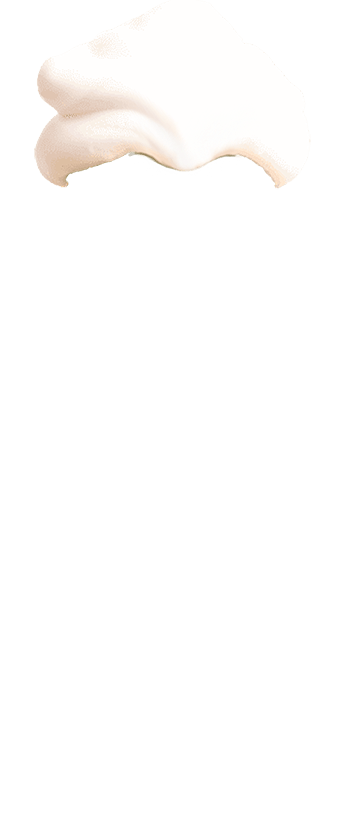
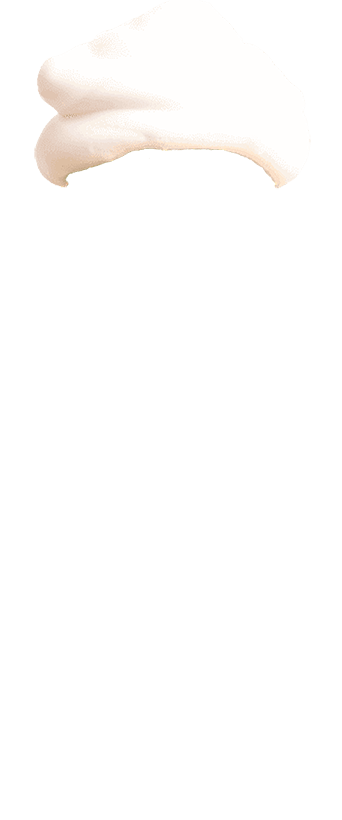
delete cream from Mobile and Tablet

Changed region(s): [[0.3801, 0.122, 0.7018, 0.2134]]

diff --git a/src/partials/hero.html b/src/partials/hero.html
@@ -160,14 +160,6 @@
           "
           media="(min-width: 1280px)"
         />
-        <source
-          srcset="./images/hero/08_cream-tablet@1x.png 1x, ./images/hero/08_cream-tablet@2x.png 2x"
-          media="(min-width: 768px)"
-        />
-        <source
-          srcset="./images/hero/08_cream-mobile@1x.png 1x, ./images/hero/08_cream-mobile@2x.png 2x"
-          media="(max-width: 767px)"
-        />
         <img src="./images/hero/08_cream-desktop@1x.png" alt="cream" />
       </picture>
       <picture class="picture-wrap__layer">
@@ -177,14 +169,6 @@
             ./images/hero/09_cream-desktop@2x.png 2x
           "
           media="(min-width: 1280px)"
-        />
-        <source
-          srcset="./images/hero/09_cream-tablet@1x.png 1x, ./images/hero/09_cream-tablet@2x.png 2x"
-          media="(min-width: 768px)"
-        />
-        <source
-          srcset="./images/hero/09_cream-mobile@1x.png 1x, ./images/hero/09_cream-mobile@2x.png 2x"
-          media="(max-width: 767px)"
         />
         <img src="./images/hero/09_cream-desktop@1x.png" alt="cream" />
       </picture>

diff --git a/src/sass/components/_hero.scss b/src/sass/components/_hero.scss
@@ -351,7 +351,6 @@
   height: 502px;
   padding-top: 92px;
   z-index: -1;
-  // border: 1px dashed deeppink;
 
   @media screen and ($tablet) {
     height: 399px;
@@ -397,29 +396,20 @@
   }
   & .picture-wrap__layer:nth-child(8) {
     display: none;
-    @media screen and ($tablet) {
-      opacity: 0;
-      display: block;
-      top: 48px;
-      left: 342px;
-    }
     @media screen and ($desktop) {
+      display: block;
+      opacity: 0;
       top: 95px;
       left: 600px;
     }
-
     animation: appearanceCream 1700ms 800ms ease-in-out forwards,
       flowCream 2200ms 800ms ease-in-out forwards;
   }
   & .picture-wrap__layer:nth-child(9) {
     display: none;
-    @media screen and ($tablet) {
-      opacity: 0;
-      display: block;
-      top: 48px;
-      left: 342px;
-    }
+    opacity: 0;
     @media screen and ($desktop) {
+      display: block;
       top: 95px;
       left: 600px;
     }
